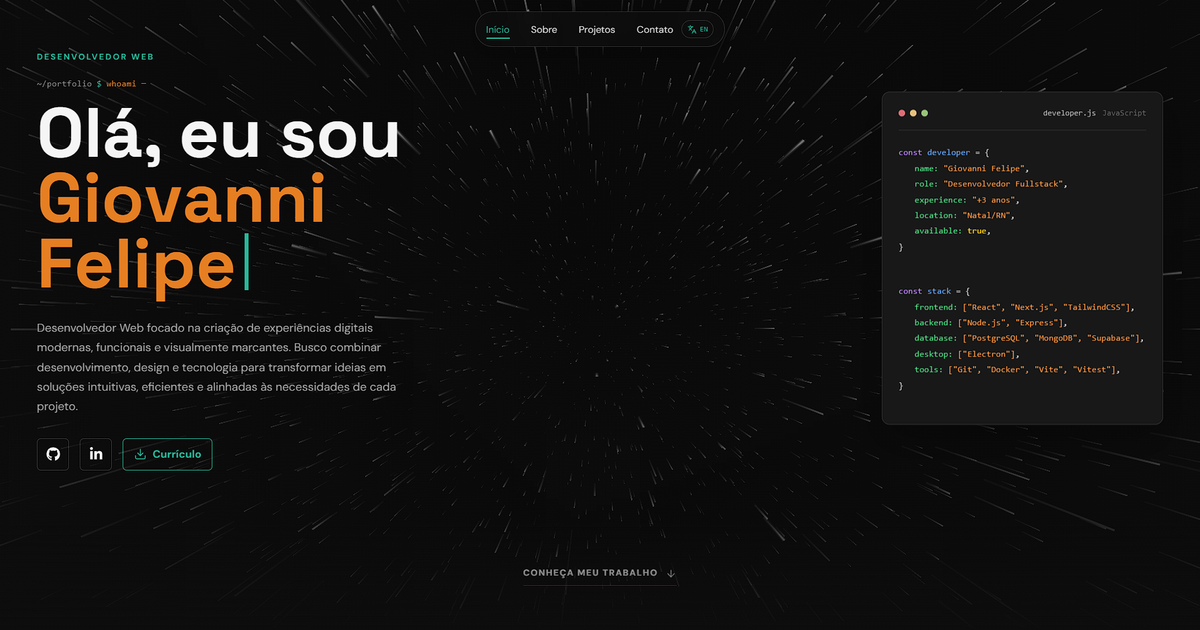
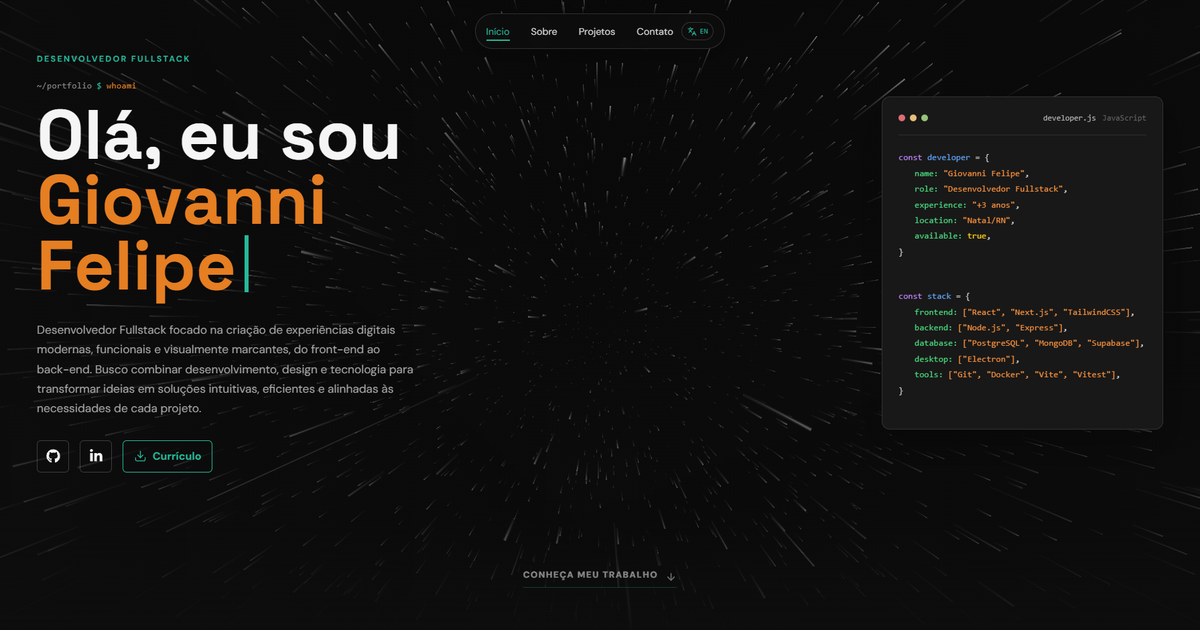
chore: update site URL, OG image and fullstack developer wording

diff --git a/src/components/Projects.jsx b/src/components/Projects.jsx
@@ -63,8 +63,8 @@ const projects = (isEnglish) => [
       : "Projeto pessoal · Em desenvolvimento",
     inProgress: true,
     description: isEnglish
-      ? "A gamified habit app with a stoic theme: every completed habit sculpts your marble statue, and every miss leaves cracks that only consistency can restore. With four virtue archetypes and chained routines, it is also my TypeScript and full stack architecture lab: a monorepo with shared, tested game rules, JWT authentication and PostgreSQL with Drizzle ORM."
-      : "App de hábitos gamificado com tema estoico: cada hábito cumprido esculpe sua estátua de mármore, e cada falha deixa rachaduras que só a constância restaura. Com quatro arquétipos de virtude e rotinas encadeadas, é também meu laboratório de TypeScript e arquitetura full stack: monorepo com regras de jogo compartilhadas e testadas, autenticação com JWT e PostgreSQL com Drizzle ORM.",
+      ? "A gamified habit app with a stoic theme: every completed habit sculpts your marble statue, and every miss leaves cracks that only consistency can restore. With four virtue archetypes and chained routines, it is also my TypeScript and fullstack architecture lab: a monorepo with shared, tested game rules, JWT authentication and PostgreSQL with Drizzle ORM."
+      : "App de hábitos gamificado com tema estoico: cada hábito cumprido esculpe sua estátua de mármore, e cada falha deixa rachaduras que só a constância restaura. Com quatro arquétipos de virtude e rotinas encadeadas, é também meu laboratório de TypeScript e arquitetura fullstack: monorepo com regras de jogo compartilhadas e testadas, autenticação com JWT e PostgreSQL com Drizzle ORM.",
     technologies: [
       "TypeScript",
       "React",
@@ -105,8 +105,8 @@ function Projects() {
           </div>
           <p className="projects-intro">
             {isEnglish
-              ? "A selection of full stack systems created for real academic and professional contexts. Each project combines product thinking, reliable architecture and clear interfaces to turn complex routines into practical digital experiences."
-              : "Uma seleção de sistemas full stack criados para contextos acadêmicos e profissionais reais. Cada projeto combina visão de produto, arquitetura confiável e interfaces claras para transformar rotinas complexas em experiências digitais práticas e eficientes."}
+              ? "A selection of fullstack systems created for real academic and professional contexts. Each project combines product thinking, reliable architecture and clear interfaces to turn complex routines into practical digital experiences."
+              : "Uma seleção de sistemas fullstack criados para contextos acadêmicos e profissionais reais. Cada projeto combina visão de produto, arquitetura confiável e interfaces claras para transformar rotinas complexas em experiências digitais práticas e eficientes."}
           </p>
         </div>
 

diff --git a/src/components/About.jsx b/src/components/About.jsx
@@ -28,8 +28,8 @@ const experiences = [
   {
     period: { pt: "Jan 2024 - Dez 2025", en: "Jan 2024 - Dec 2025" },
     role: {
-      pt: "Desenvolvedor Web Full Stack",
-      en: "Full Stack Web Developer",
+      pt: "Desenvolvedor Fullstack",
+      en: "Fullstack Developer",
     },
     company: "Digital Boost",
     description: {
@@ -48,7 +48,10 @@ const experiences = [
   },
   {
     period: { pt: "Jun 2023 - atualmente", en: "Jun 2023 - present" },
-    role: { pt: "Desenvolvedor Web Freelancer", en: "Freelance Web Developer" },
+    role: {
+      pt: "Desenvolvedor Fullstack Freelancer",
+      en: "Freelance Fullstack Developer",
+    },
     description: {
       pt: "Atendo clientes diretamente, do primeiro briefing ao deploy: entendo as necessidades do negócio, proponho a solução, desenho as interfaces e construo a aplicação completa, do front-end às APIs e ao banco de dados. Também cuido da publicação e dos ajustes depois da entrega, com uma comunicação próxima para que o resultado final reflita a visão de cada cliente.",
       en: "I work directly with clients, from the first briefing to deployment: I understand the business needs, propose the solution, design the interfaces and build the complete application, from front end to APIs and database. I also handle publishing and post-launch adjustments, keeping close communication so the final result reflects each client's vision.",
@@ -188,7 +191,7 @@ const technologyGroups = [
   },
 ];
 
-// ESTATISTICAS 
+// ESTATISTICAS
 
 const prefersReducedMotion = () =>
   window.matchMedia("(prefers-reduced-motion: reduce)").matches;
@@ -396,8 +399,8 @@ function About() {
             <div className="about-content">
               <p className="about-lead">
                 {isEnglish
-                  ? "Full stack developer turning ideas into clear, functional digital products."
-                  : "Desenvolvedor full stack que transforma ideias em produtos digitais claros e funcionais."}
+                  ? "Fullstack developer turning ideas into clear, functional digital products."
+                  : "Desenvolvedor fullstack que transforma ideias em produtos digitais claros e funcionais."}
               </p>
               <p className="about-text">
                 {isEnglish

diff --git a/src/components/Hero.jsx b/src/components/Hero.jsx
@@ -82,7 +82,7 @@ function Hero() {
 
       <div className="hero-content">
         <p className="hero-label">
-          {isEnglish ? "WEB DEVELOPER" : "DESENVOLVEDOR WEB"}
+          {isEnglish ? "FULLSTACK DEVELOPER" : "DESENVOLVEDOR FULLSTACK"}
         </p>
 
         <div className="hero-console" aria-hidden="true">
@@ -111,9 +111,19 @@ function Hero() {
         </h1>
 
         <p className="hero-description">
-          {isEnglish
-            ? "Web Developer focused on creating modern, functional and visually striking digital experiences. I combine development, design and technology to turn ideas into intuitive, efficient solutions."
-            : "Desenvolvedor Web focado na criação de experiências digitais modernas, funcionais e visualmente marcantes. Busco combinar desenvolvimento, design e tecnologia para transformar ideias em soluções intuitivas, eficientes e alinhadas às necessidades de cada projeto."}
+          {isEnglish ? (
+            "Fullstack Developer focused on creating modern, functional and visually striking digital experiences, from front end to back end. I combine development, design and technology to turn ideas into intuitive, efficient solutions."
+          ) : (
+            <>
+              Desenvolvedor Fullstack focado na criação de experiências digitais
+              modernas, funcionais e visualmente marcantes, do{" "}
+              <span className="no-wrap">front-end</span> ao{" "}
+              <span className="no-wrap">back-end</span>. Busco combinar
+              desenvolvimento, design e tecnologia para transformar ideias em
+              soluções intuitivas, eficientes e alinhadas às necessidades de
+              cada projeto.
+            </>
+          )}
         </p>
 
         <div

diff --git a/index.html b/index.html
@@ -3,10 +3,10 @@
   <head>
     <meta charset="UTF-8" />
     <meta name="viewport" content="width=device-width, initial-scale=1.0" />
-    <title>Giovanni Felipe | Desenvolvedor Web</title>
+    <title>Giovanni Felipe | Desenvolvedor Fullstack</title>
     <meta
       name="description"
-      content="Giovanni Felipe, desenvolvedor web full stack em Natal/RN. Aplicações com React, Node.js, TypeScript, PostgreSQL e MongoDB."
+      content="Giovanni Felipe, desenvolvedor fullstack em Natal/RN. Aplicações com React, Node.js, TypeScript, PostgreSQL e MongoDB."
     />
     <meta name="theme-color" content="#0d0d0d" />
 
@@ -15,10 +15,13 @@
 
     <meta property="og:type" content="website" />
     <meta property="og:url" content="https://giovanni-felipe-dev.vercel.app/" />
-    <meta property="og:title" content="Giovanni Felipe | Desenvolvedor Web" />
+    <meta
+      property="og:title"
+      content="Giovanni Felipe | Desenvolvedor Fullstack"
+    />
     <meta
       property="og:description"
-      content="Desenvolvedor web full stack em Natal/RN. React, Node.js, TypeScript, PostgreSQL e MongoDB."
+      content="Desenvolvedor fullstack em Natal/RN. React, Node.js, TypeScript, PostgreSQL e MongoDB."
     />
     <meta
       property="og:image"

diff --git a/src/index.css b/src/index.css
@@ -363,6 +363,11 @@ a {
   line-height: 1;
 }
 
+/* Keeps hyphenated words (e.g. "back-end") from breaking across lines */
+.no-wrap {
+  white-space: nowrap;
+}
+
 .visually-hidden {
   position: absolute;
   overflow: hidden;
